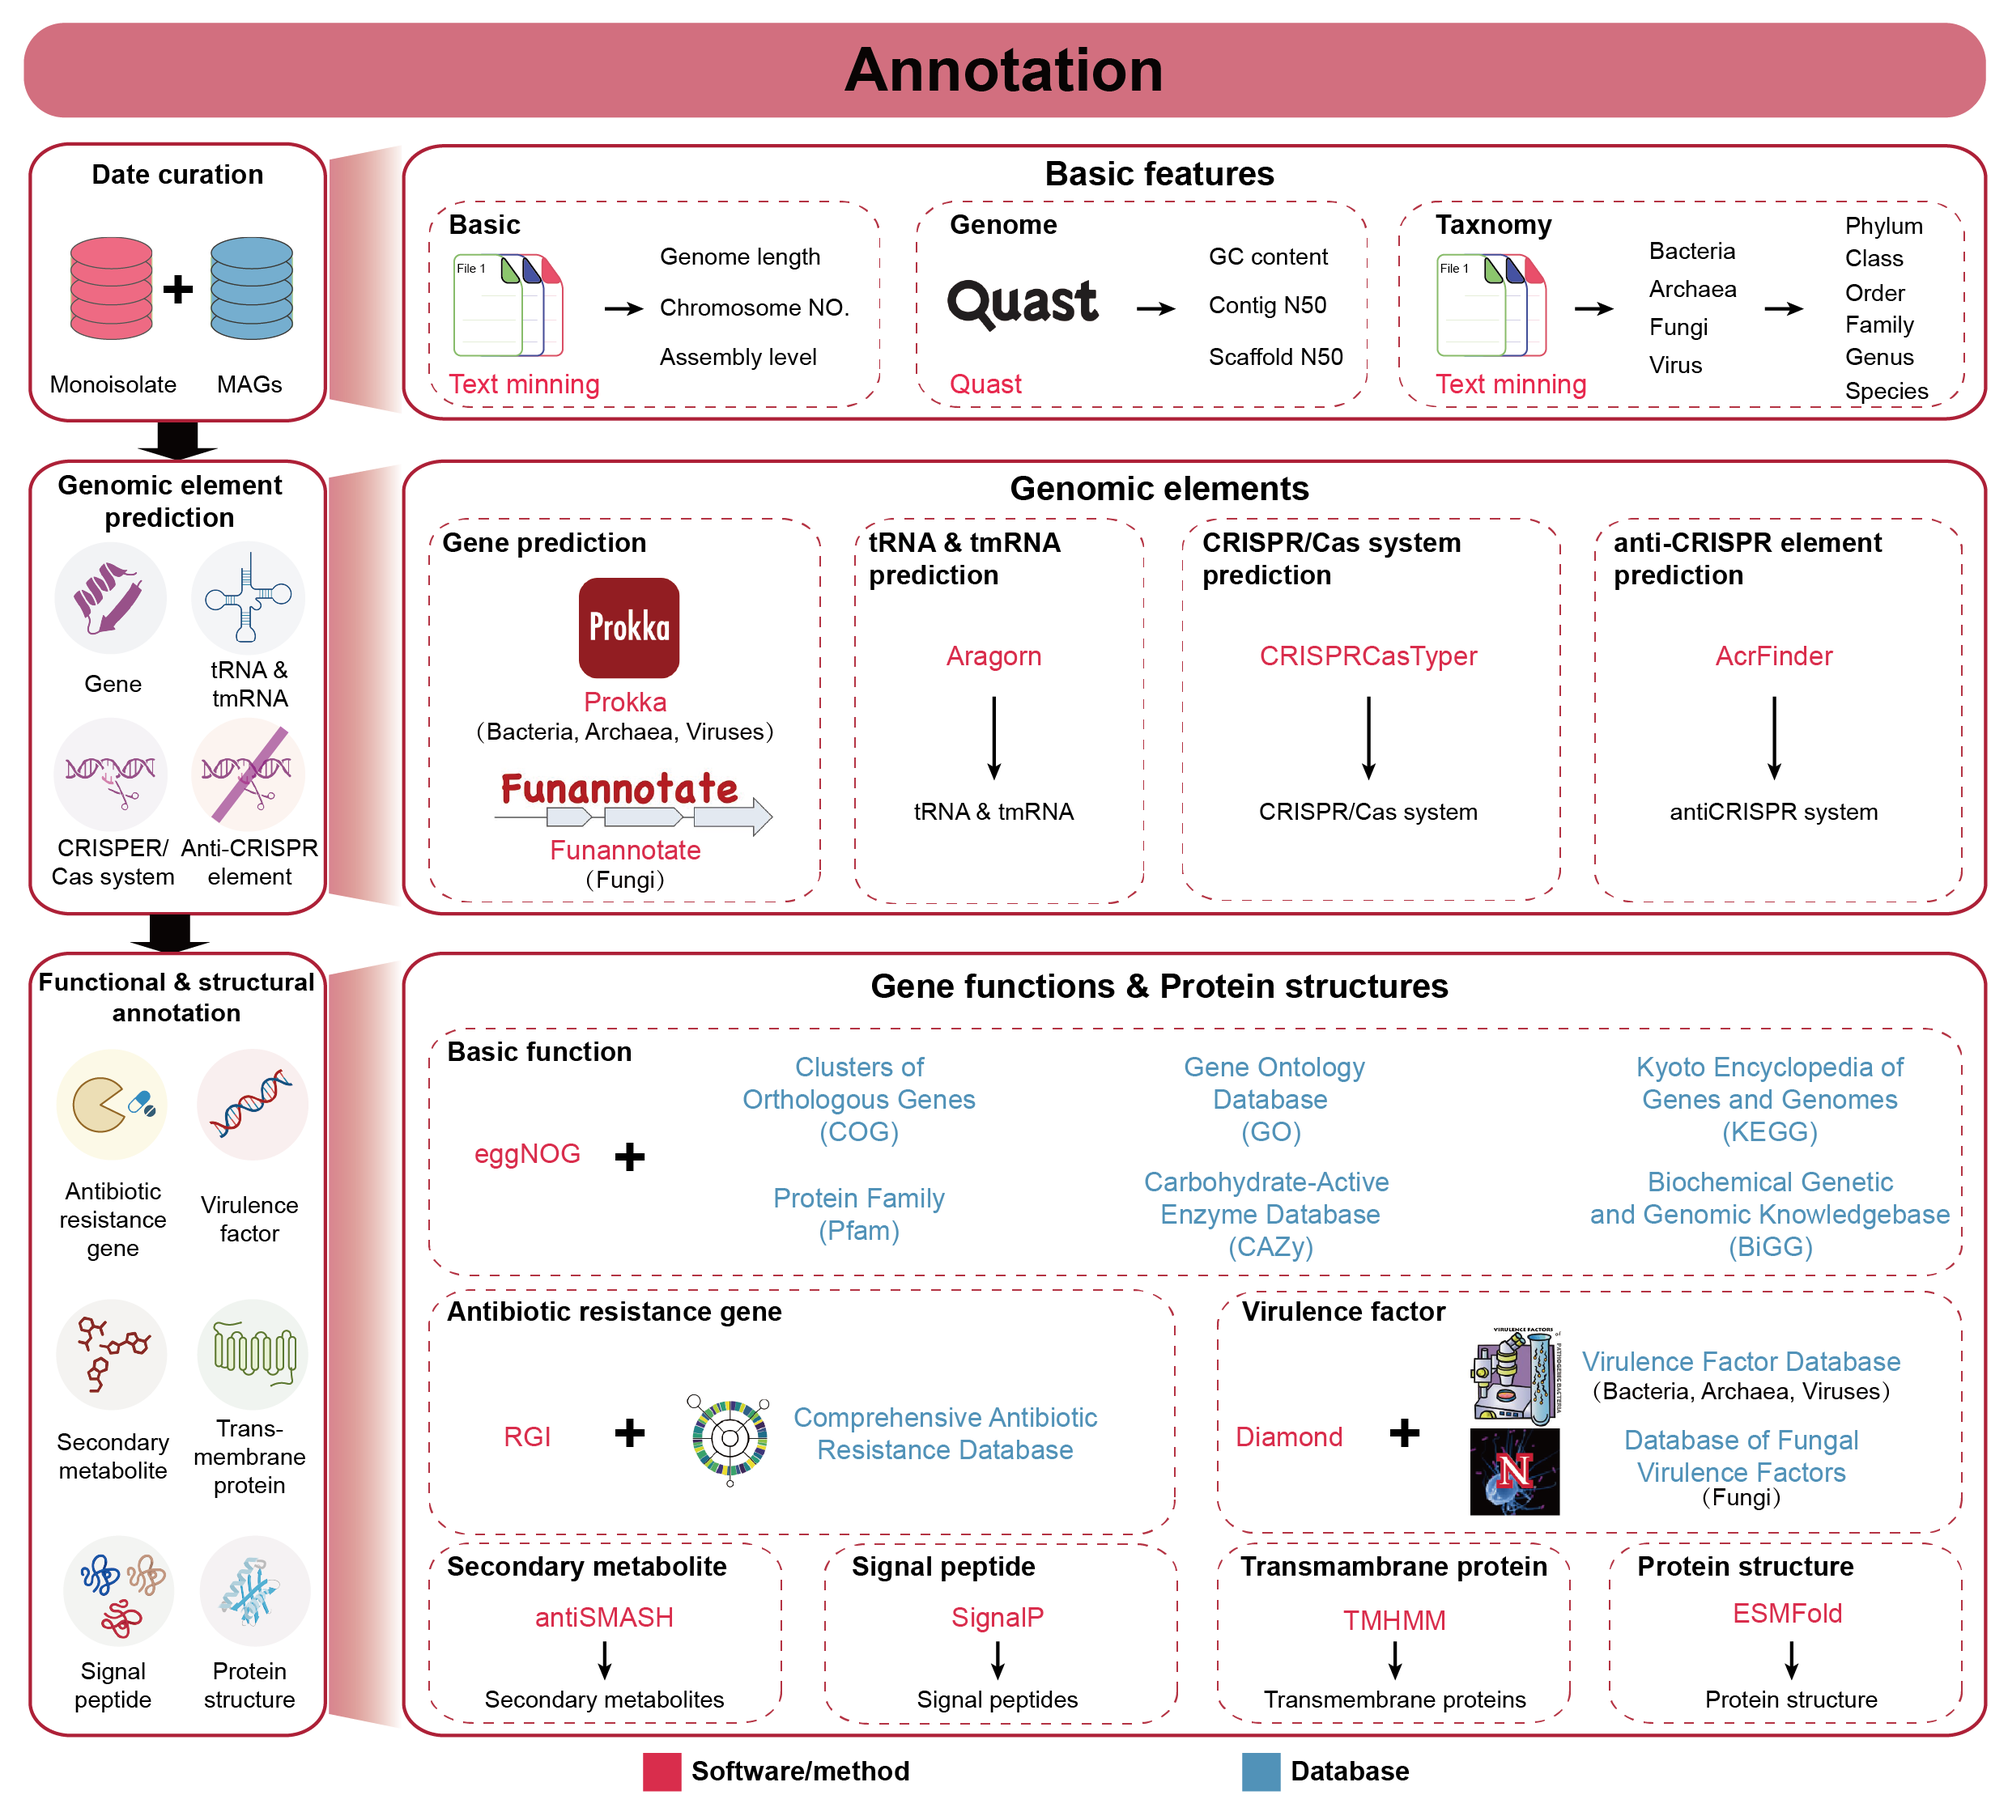
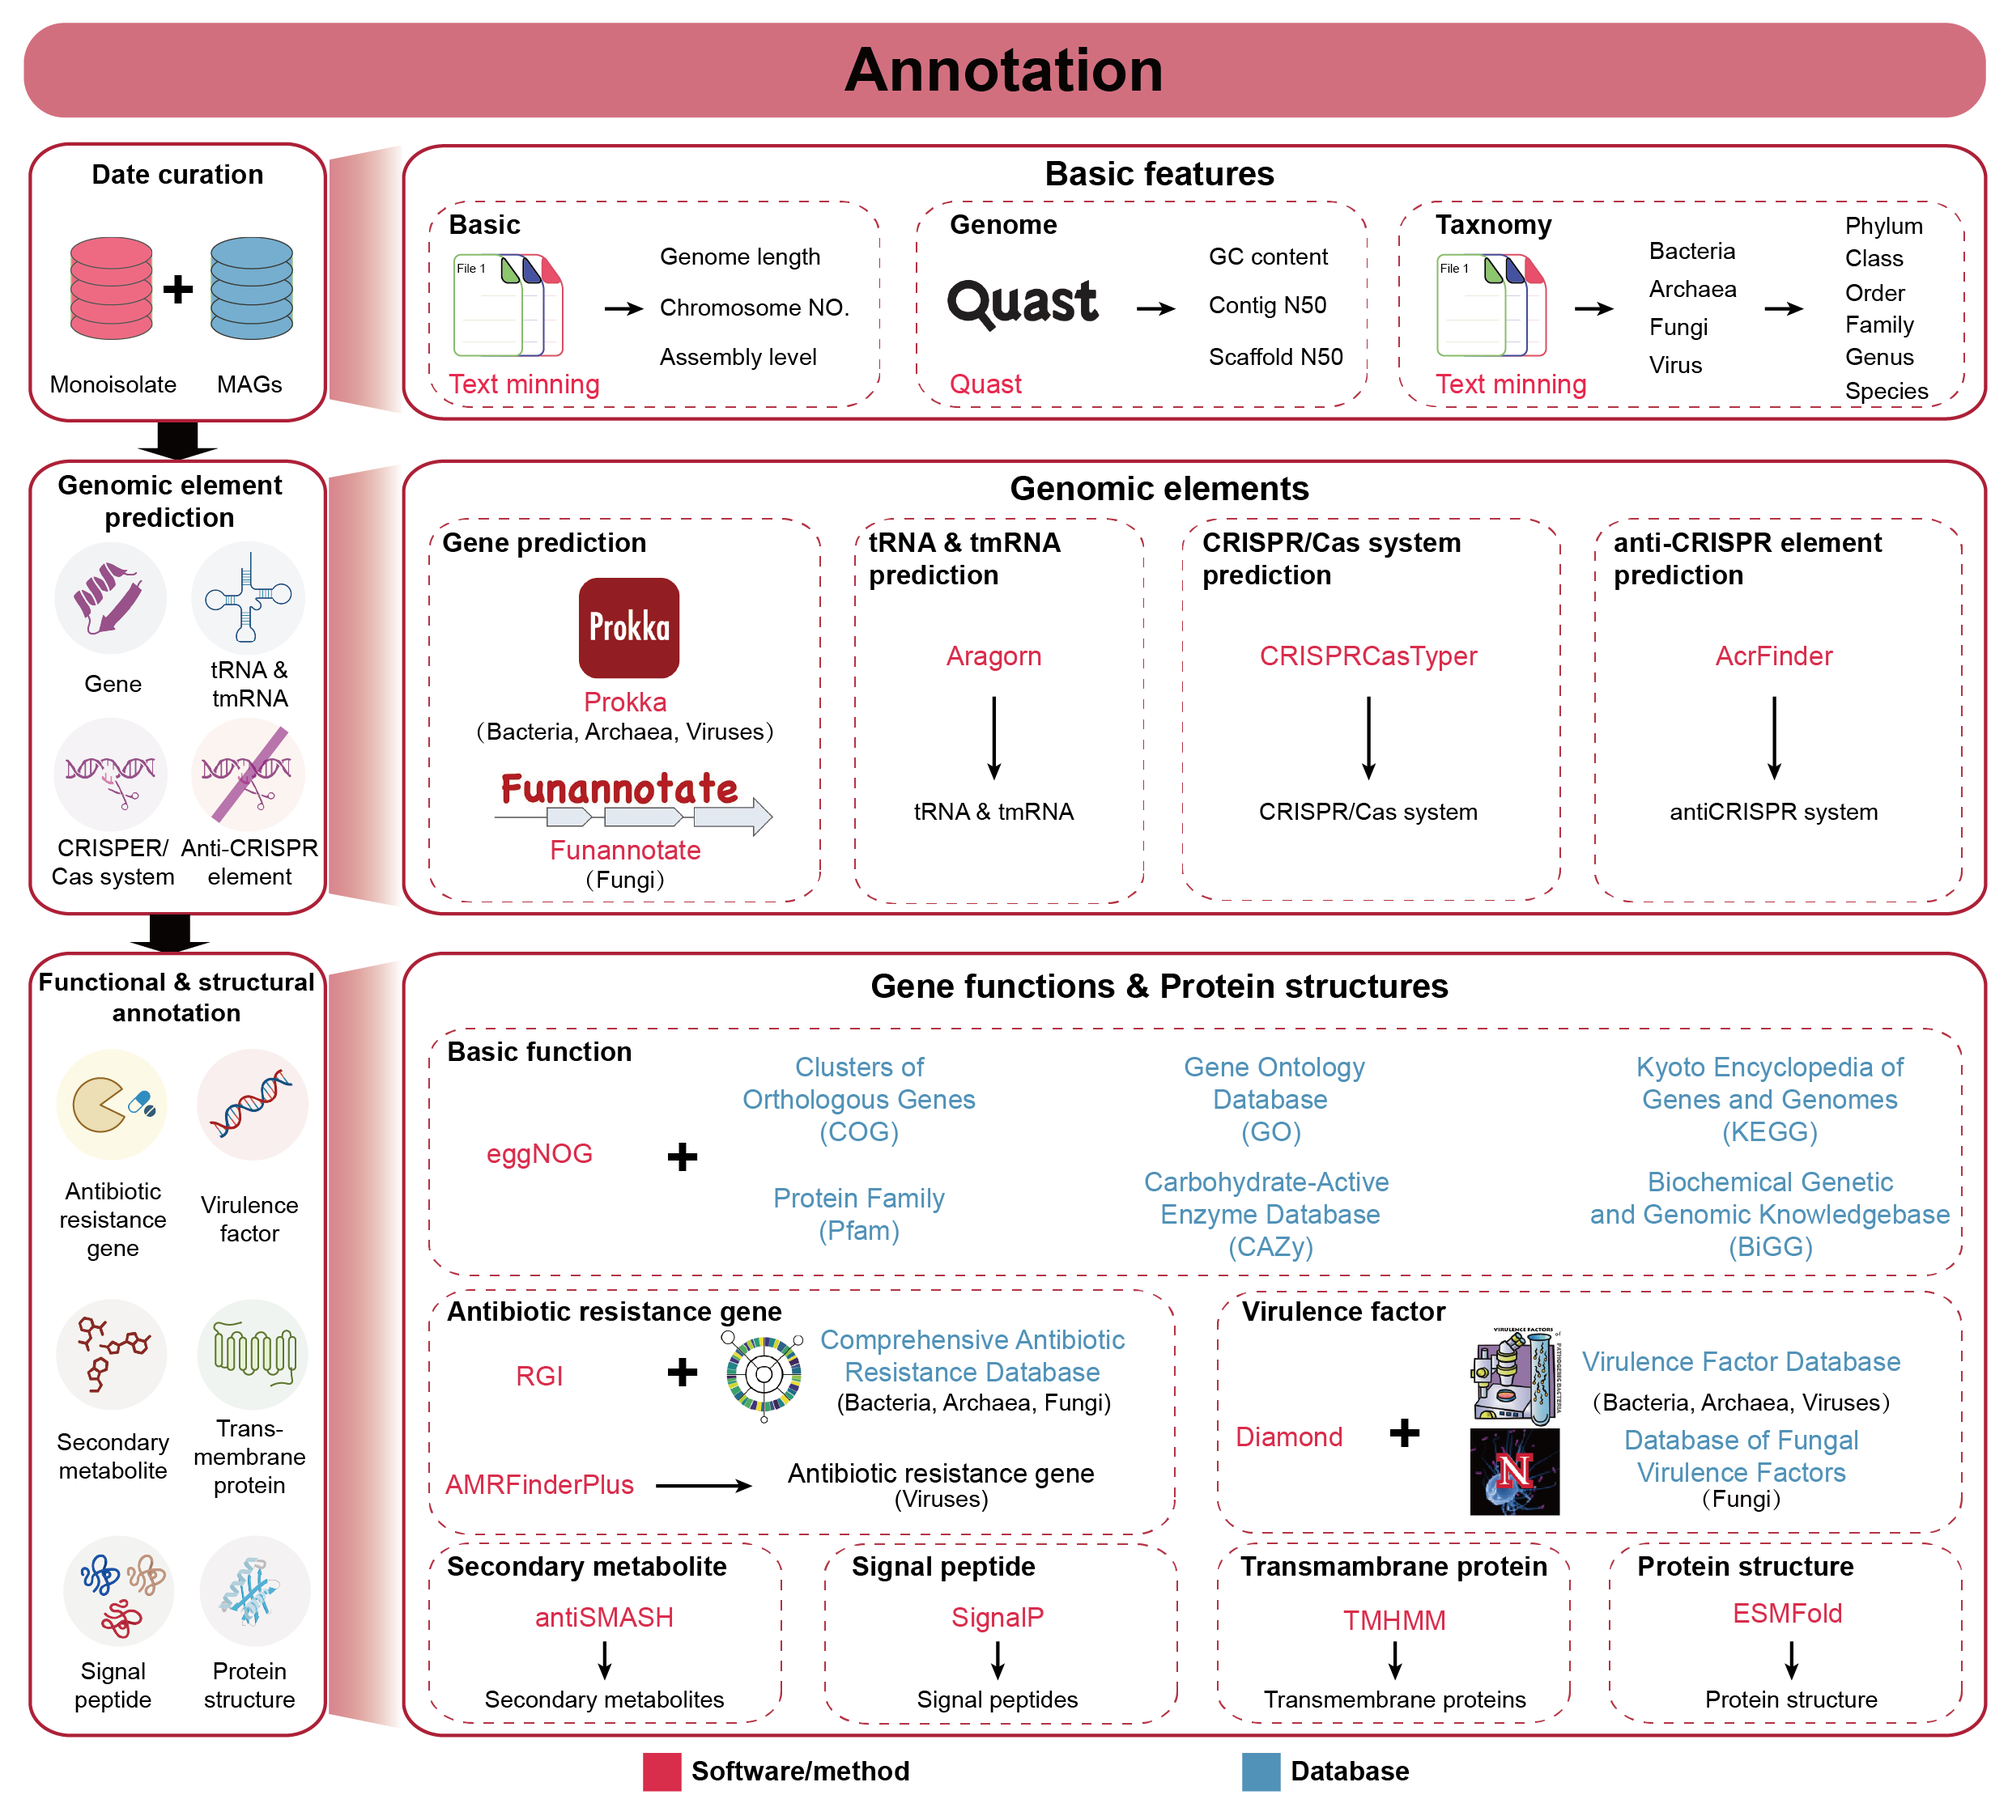
Fix some bugs.

diff --git a/components/pagesComponents/homePage/News.js b/components/pagesComponents/homePage/News.js
@@ -11,6 +11,30 @@ const timelineItems = [
         dot: <CalendarOutlined style={{ fontSize: '20px' }}/>,
         children: (
             <>
+                <Title level={4} style={{ marginBottom: 8 }}>Version 1.4 (2025.10.15)</Title>
+                <Box>
+                    <ul style={{ paddingLeft: '30px', margin: 0 }}>
+                        <li>
+                            Added <strong>antibiotic resistance gene (ARG)</strong> annotations for <strong>all viral
+                            genomes</strong> using <strong>AMRFinderPlus</strong>.
+                        </li>
+                        <li>
+                            Applied <strong>a more stringent filtering criterion (80% coverage cutoff) for virulence
+                            gene identification</strong> to improve annotation accuracy.
+                        </li>
+                        <li>
+                            Fixed technical issues and improved website stability.
+                        </li>
+                    </ul>
+                </Box>
+            </>
+        )
+    },
+    {
+        color: 'blue',
+        dot: <CalendarOutlined style={{ fontSize: '20px' }}/>,
+        children: (
+            <>
                 <Title level={4} style={{ marginBottom: 8 }}>Version 1.3 (2025.9.20)</Title>
                 <Box>
                     <strong>Quality Enhancements and Expanded Features</strong>. This update focuses on improving data
